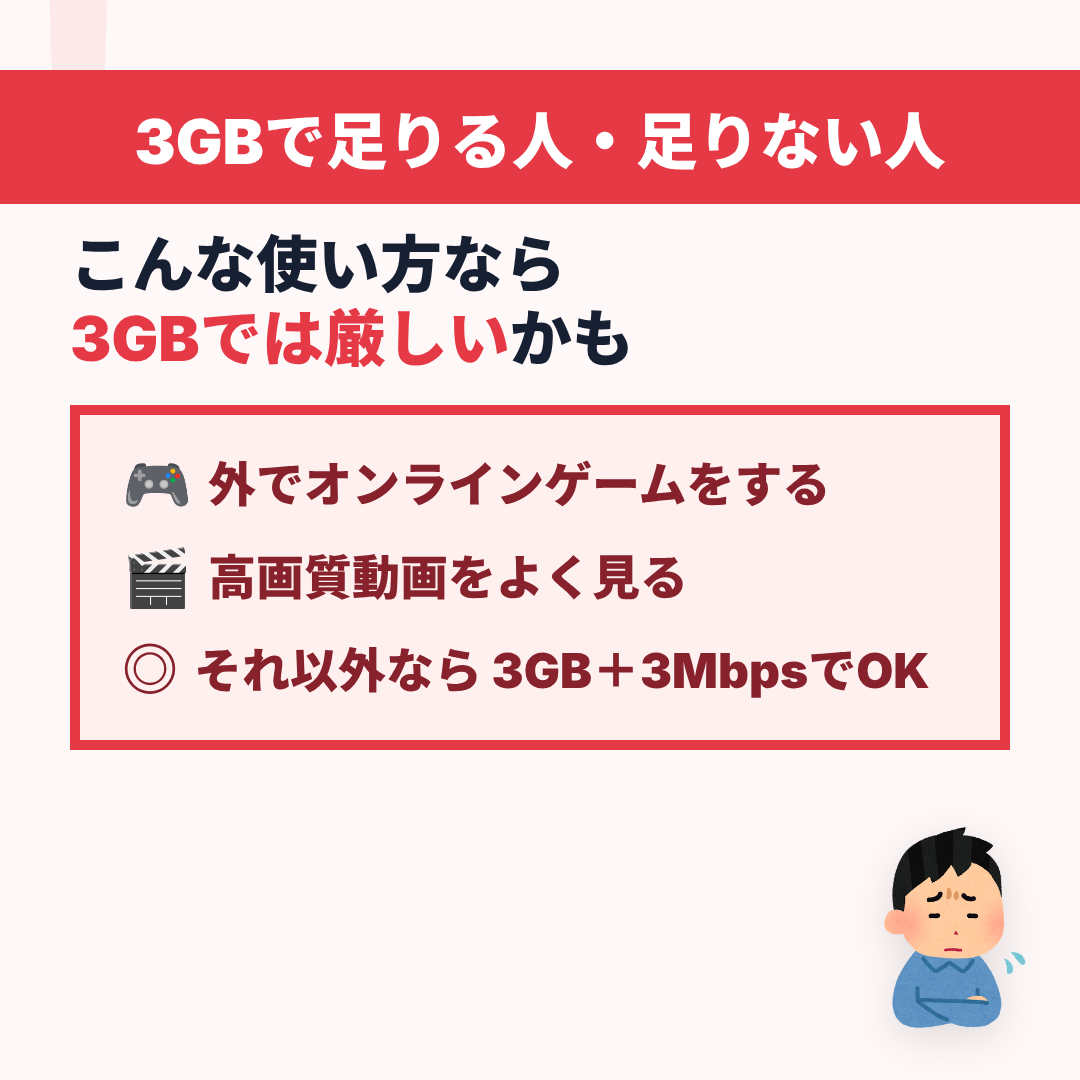
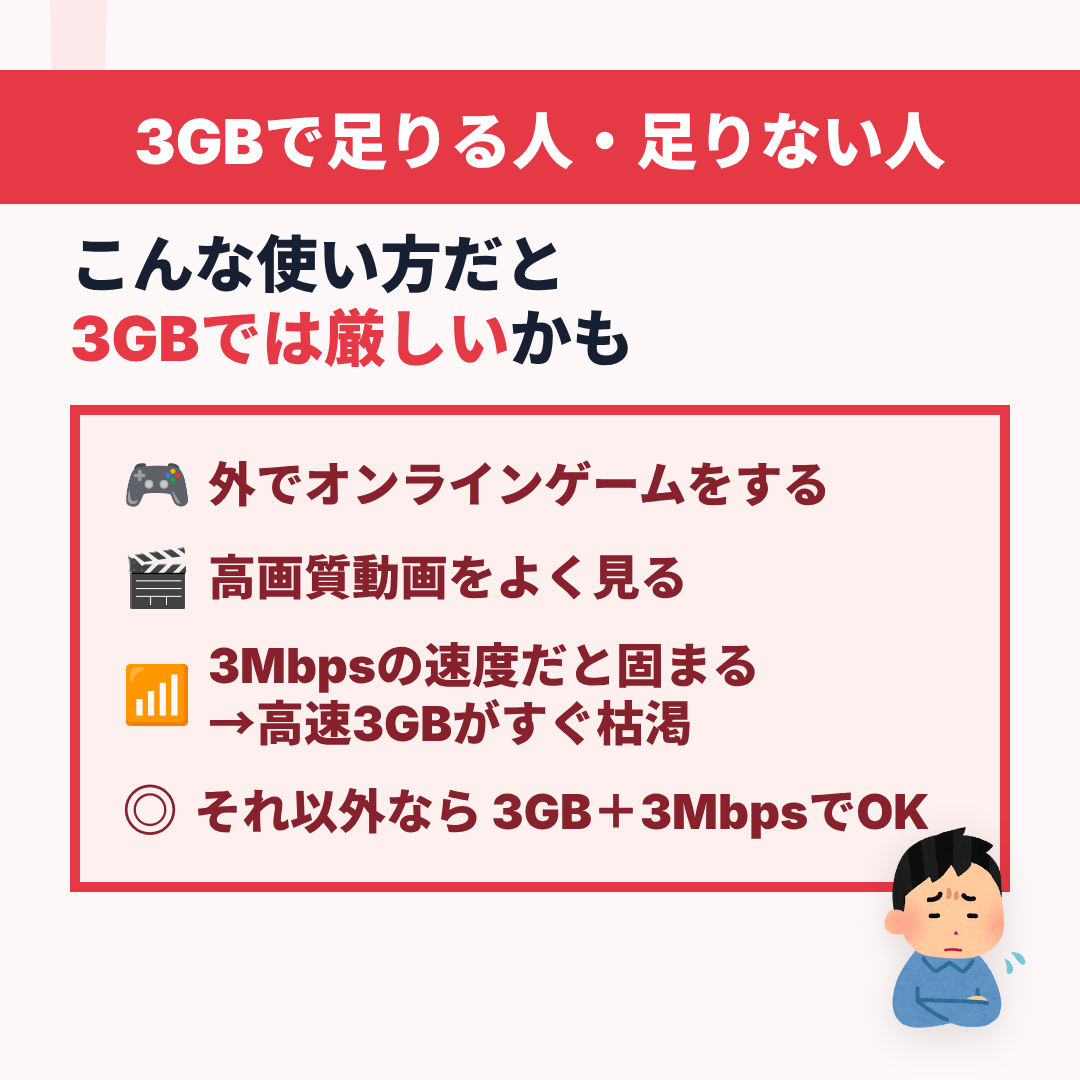
ショート手直し

Changed region(s): [[0.0611, 0.5806, 0.9472, 0.825], [0.3972, 0.2139, 0.5194, 0.275]]

diff --git a/slides-short.html b/slides-short.html
@@ -521,7 +521,7 @@
         </div>
         <div class="w-item"><span>🎬</span><b>高画質動画をよく見る</b></div>
         <div class="w-item">
-          <span>📶</span><b>3Mbpsの速度だと固まる→高速3GBがすぐ枯渇</b>
+          <span>📶</span><b>3Mbpsの速度だと固まる<br />→高速3GBがすぐ枯渇</b>
         </div>
         <div class="w-item">
           <span>◎</span><b>それ以外なら 3GB＋3MbpsでOK</b>
